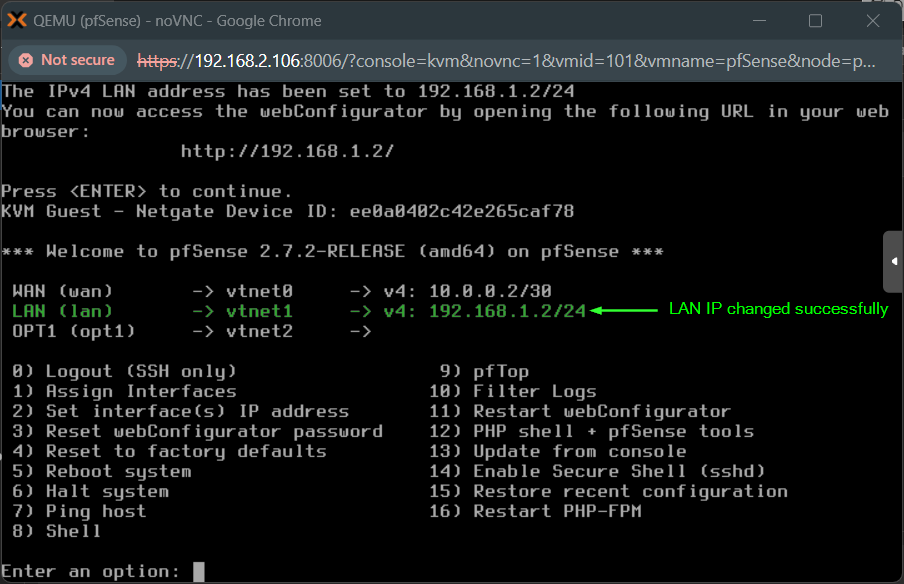
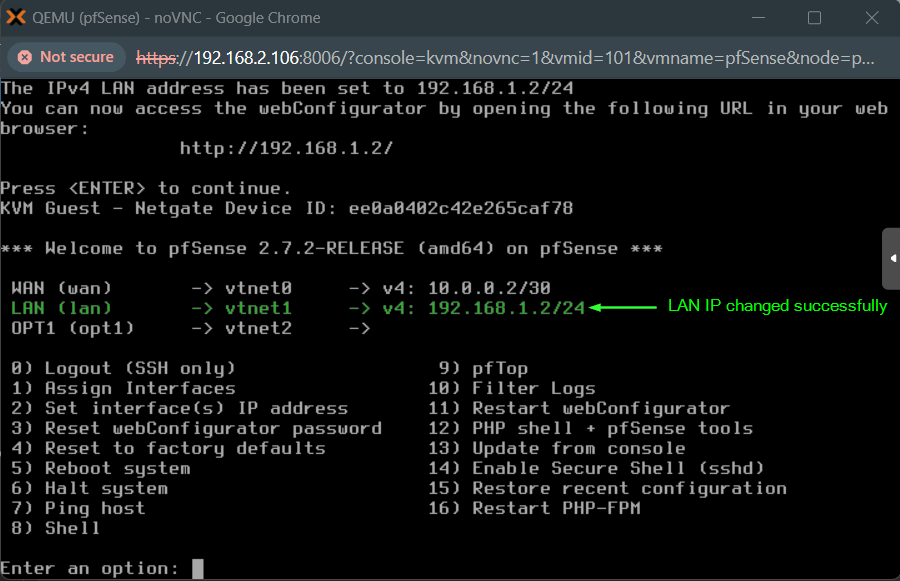
image updated

diff --git a/GOAD-pfsense-setup.md b/GOAD-pfsense-setup.md
@@ -193,7 +193,7 @@ iii. *Define DHCP IP Range*
 
 iv. LAN IP change confirmed
 
-<div align="center" ><img src='https://github.com/quincyntuli/pfsense/raw/main/img/pFsense-install-Wizad-LAN-interface-IP-04.png'><br><ins>LAN IP change confirmed</ins></div>
+<div align="center" ><img src='https://github.com/quincyntuli/pfsense/raw/main/img/pFsense-install-Wizad-LAN-interface-IP-Change-Successful.png'><br><ins>LAN IP change confirmed</ins></div>
 
 
 
